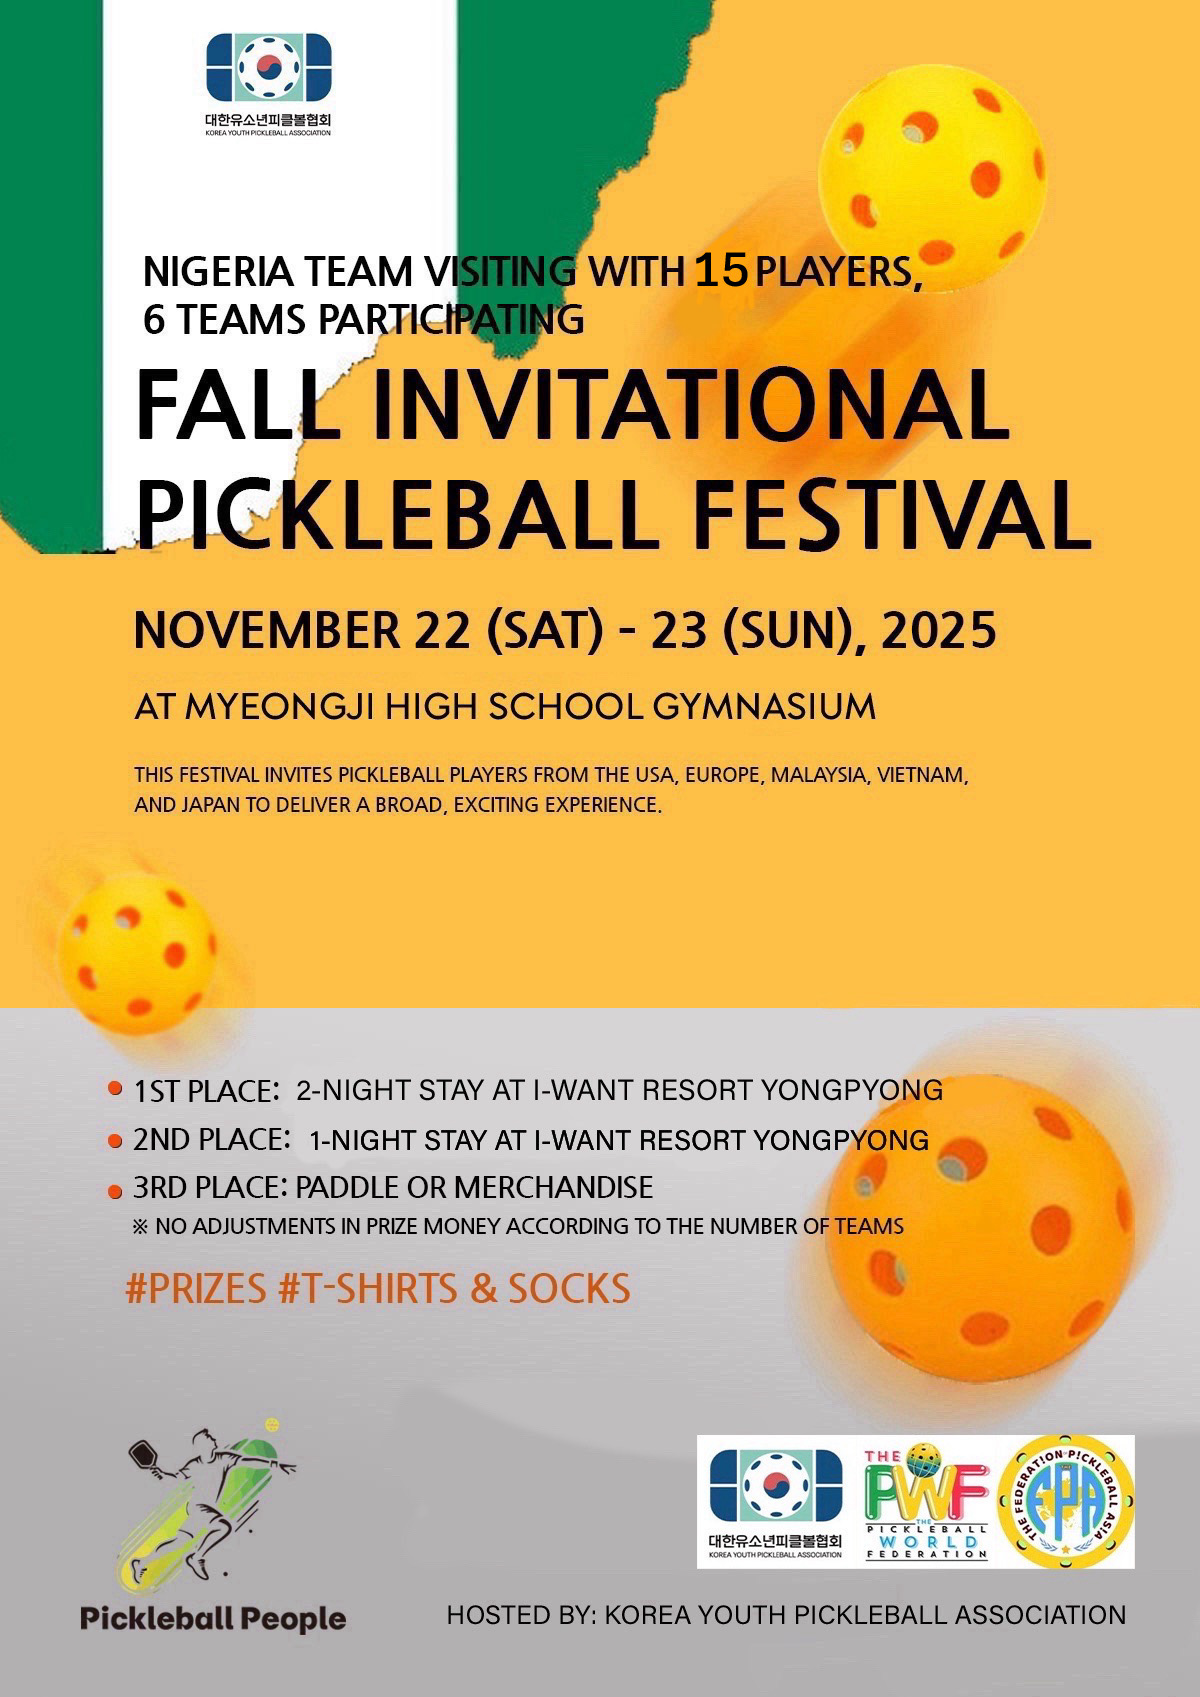
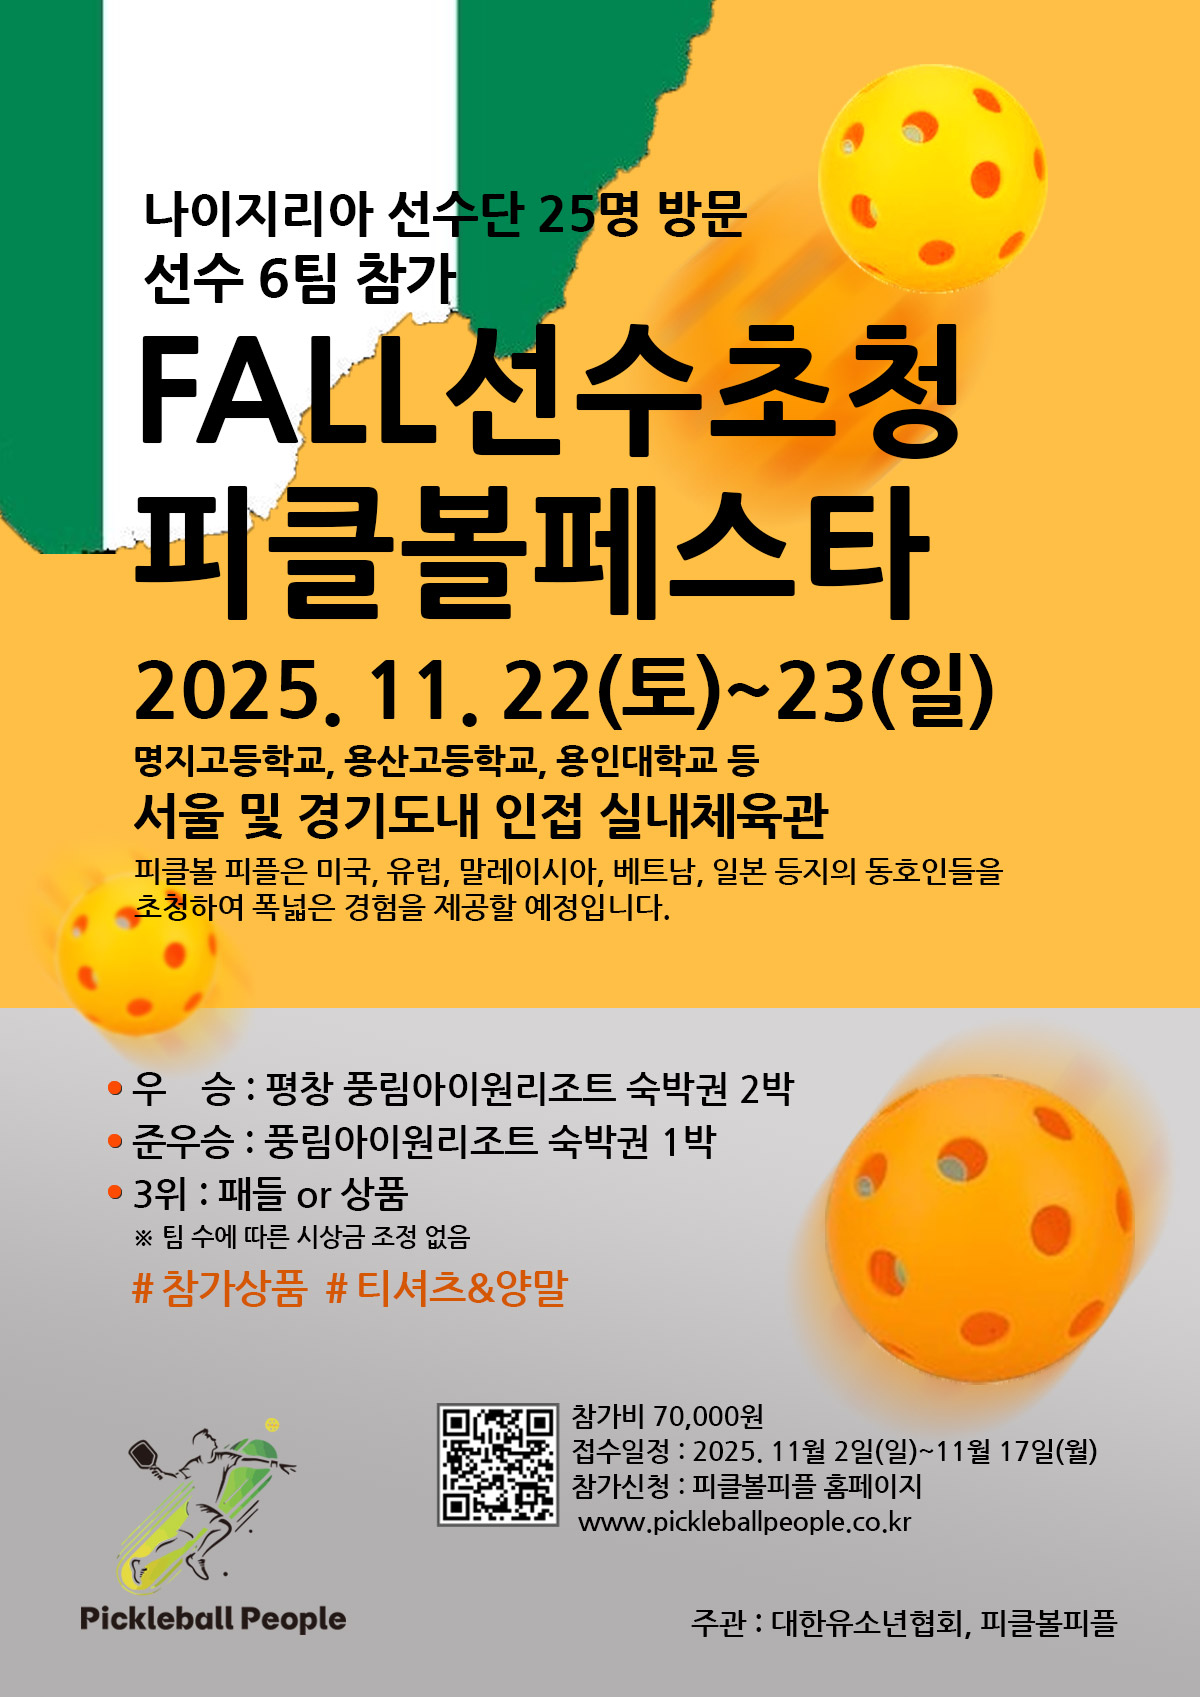
changed korean news post image

diff --git a/src/app/en/page.tsx b/src/app/en/page.tsx
@@ -63,22 +63,22 @@ export default function HomePage() {
           <h2 className="text-4xl font-bold text-center mb-12">Recent News</h2>
         <div className="bg-white rounded-2xl shadow hover:shadow-lg overflow-hidden transition-all p-4">
           <img 
-            src="/images/banner_image.JPG" 
+            src="/images/fall-international-pickleball-festival/poster_en.jpg" 
             alt="" 
             className="mx-auto max-w-xs object-contain"
           />
           <div className="mt-4">
-            <Link href={`/news/paddles-without-borders-korea-nigeria-pickleball-festival`}>
+            <Link href={`/news/fall-international-pickleball-festival`}>
               <h3 className="text-lg font-semibold text-black hover:underline cursor-pointer">
-                The 1st “Paddles Without Borders”: Korea x Nigeria Pickleball Friendship Festival
+                Fall International Pickleball Festival
               </h3>
             </Link>
-            <p className="text-sm text-gray-500">August 3, 2025</p>
+            <p className="text-sm text-gray-500">November 5, 2025</p>
             <p className="mt-2 text-sm text-gray-700 line-clamp-3">
-              The first-ever &quot;Paddles Without Borders&quot; festival brought together Korea and Nigeria in a vibrant celebration of friendship and cultural exchange through pickleball.
+              An international six-team pickleball festival will be held Nov 22-23, 2025 in the Seoul-Gyeonggi area, with registration open Nov 2-17.
             </p>
             <Link 
-              href={`/news/paddles-without-borders-korea-nigeria-pickleball-festival`} 
+              href={`/news/fall-international-pickleball-festival`} 
               className="inline-block mt-4 text-[#40937e] hover:underline text-sm"
             >
               Read More →

diff --git a/src/app/kr/page.tsx b/src/app/kr/page.tsx
@@ -70,22 +70,22 @@ export default function HomePage() {
           <h2 className="text-4xl font-bold text-center mb-12">최근 소식</h2>
         <div className="bg-white rounded-2xl shadow hover:shadow-lg overflow-hidden transition-all p-4">
           <img 
-            src="/images/banner_image.JPG" 
+            src="/images/fall-international-pickleball-festival/poster_kr.jpg" 
             alt="" 
             className="mx-auto max-w-xs object-contain"
           />
           <div className="mt-4">
-            <Link href={`/news/paddles-without-borders-korea-nigeria-pickleball-festival`}>
+            <Link href={`/news/fall-international-pickleball-festival`}>
               <h3 className="text-lg font-semibold text-black hover:underline cursor-pointer">
-                제1회 &quot;국경 없는 패들&quot;: 한국 x 나이지리아 피클볼 우정 축제
+                FALL 선수 초청 피클볼 페스타
               </h3>
             </Link>
-            <p className="text-sm text-gray-500">August 3, 2025</p>
+            <p className="text-sm text-gray-500">November 5, 2025</p>
             <p className="mt-2 text-sm text-gray-700 line-clamp-3">
-              제1회 “국경 없는 패들” 페스티벌은 한국과 나이지리아가 함께한 피클볼을 통한 우정과 문화 교류의 축제였습니다.
+              11월 22~23일 서울·경기에서 국제 선수초청 피클볼페스타가 열리며, 참가 접수는 11월 2~17일 진행됩니다.
             </p>
             <Link 
-              href={`/news/paddles-without-borders-korea-nigeria-pickleball-festival`} 
+              href={`/news/fall-international-pickleball-festival`} 
               className="inline-block mt-4 text-[#40937e] hover:underline text-sm"
             >
               더 알아보기 →

diff --git a/src/app/kr/news/fall-international-pickleball-festival/page.tsx b/src/app/kr/news/fall-international-pickleball-festival/page.tsx
@@ -16,14 +16,14 @@ export default function NationalYouthPickleball2025() {
       </Link>
 
       <h1 className="text-4xl font-extrabold mb-6 text-gray-900">
-        2025년 제1회 한국 농인 피클볼 페스티벌 행사
+        FALL 선수 초청 피클볼 페스타
       </h1>
       <p className="text-gray-500 mb-10 italic">2025년 11월 5일</p>
-
+    
       <img
         src="/images/fall-international-pickleball-festival/poster_kr.jpg"
         alt="image"
-        className="rounded-lg shadow-md w-full mb-12 object-cover max-h-96"
+        className="rounded-lg shadow-md w-full mb-12 object-cover h-full"
       />
 
       <div className="space-y-6 text-gray-800 leading-relaxed text-base">
